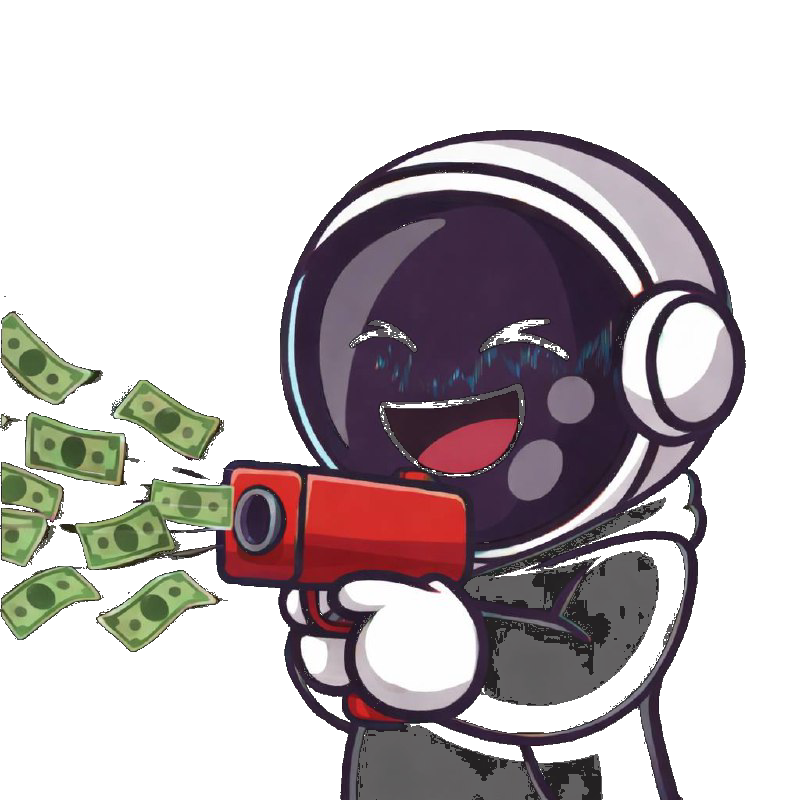
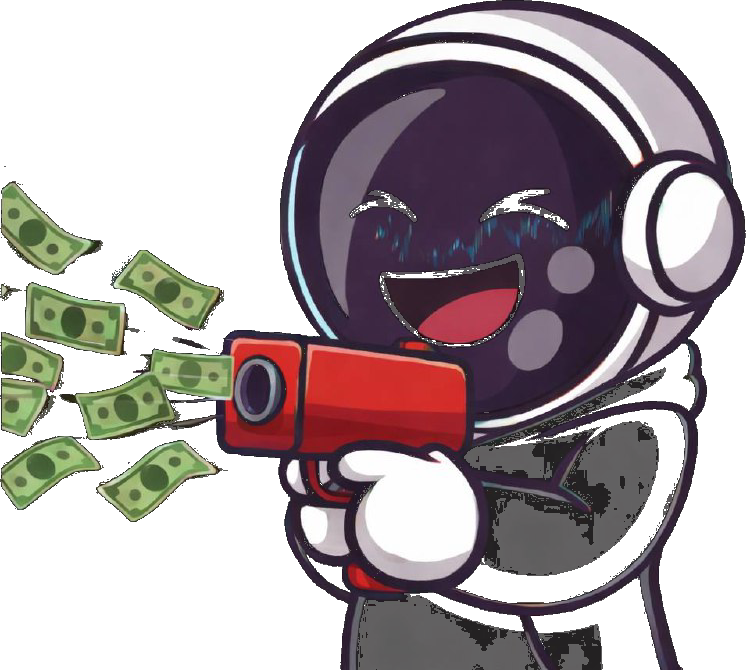
Trim transparent padding from custom4 mascot

diff --git a/tools/trim_png_transparent.js b/tools/trim_png_transparent.js
@@ -1,0 +1,77 @@
+const fs = require('fs');
+const path = require('path');
+const { PNG } = require('pngjs');
+
+// Usage: node tools/trim_png_transparent.js <in.png> <out.png> [alphaThreshold]
+// Trims fully/mostly transparent borders based on alpha > threshold.
+
+function main() {
+  const inFp = process.argv[2];
+  const outFp = process.argv[3];
+  const thr = Number(process.argv[4] || 8);
+  if (!inFp || !outFp) {
+    console.error('Usage: node tools/trim_png_transparent.js <in.png> <out.png> [alphaThreshold]');
+    process.exit(2);
+  }
+
+  const buf = fs.readFileSync(inFp);
+  const png = PNG.sync.read(buf);
+  const { width: W, height: H, data } = png;
+
+  let minX = W, minY = H, maxX = -1, maxY = -1;
+  for (let y = 0; y < H; y++) {
+    for (let x = 0; x < W; x++) {
+      const i = (y * W + x) * 4;
+      const a = data[i + 3];
+      if (a > thr) {
+        if (x < minX) minX = x;
+        if (y < minY) minY = y;
+        if (x > maxX) maxX = x;
+        if (y > maxY) maxY = y;
+      }
+    }
+  }
+
+  if (maxX < minX || maxY < minY) {
+    // Nothing visible; just copy.
+    fs.mkdirSync(path.dirname(outFp), { recursive: true });
+    fs.writeFileSync(outFp, buf);
+    console.log(JSON.stringify({ ok: true, inFp: path.resolve(inFp), outFp: path.resolve(outFp), trimmed: false, reason: 'no_nontransparent_pixels' }, null, 2));
+    return;
+  }
+
+  const newW = maxX - minX + 1;
+  const newH = maxY - minY + 1;
+  const out = new PNG({ width: newW, height: newH });
+
+  for (let y = 0; y < newH; y++) {
+    for (let x = 0; x < newW; x++) {
+      const srcI = ((minY + y) * W + (minX + x)) * 4;
+      const dstI = (y * newW + x) * 4;
+      out.data[dstI] = data[srcI];
+      out.data[dstI + 1] = data[srcI + 1];
+      out.data[dstI + 2] = data[srcI + 2];
+      out.data[dstI + 3] = data[srcI + 3];
+    }
+  }
+
+  fs.mkdirSync(path.dirname(outFp), { recursive: true });
+  fs.writeFileSync(outFp, PNG.sync.write(out));
+  console.log(
+    JSON.stringify(
+      {
+        ok: true,
+        inFp: path.resolve(inFp),
+        outFp: path.resolve(outFp),
+        trimmed: true,
+        alphaThreshold: thr,
+        box: { minX, minY, maxX, maxY },
+        size: { in: [W, H], out: [newW, newH] },
+      },
+      null,
+      2,
+    ),
+  );
+}
+
+main();
